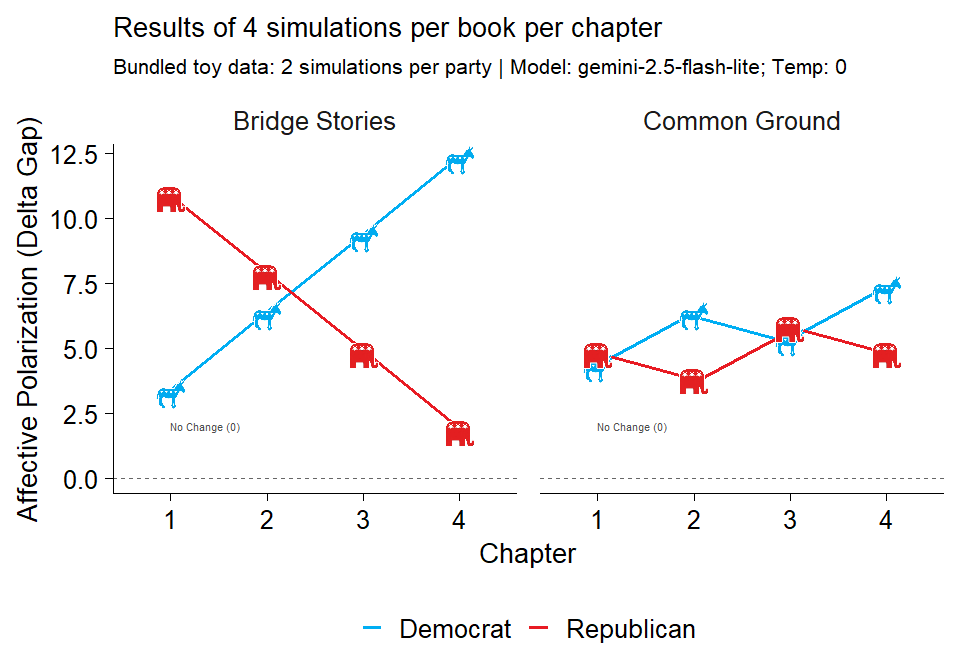
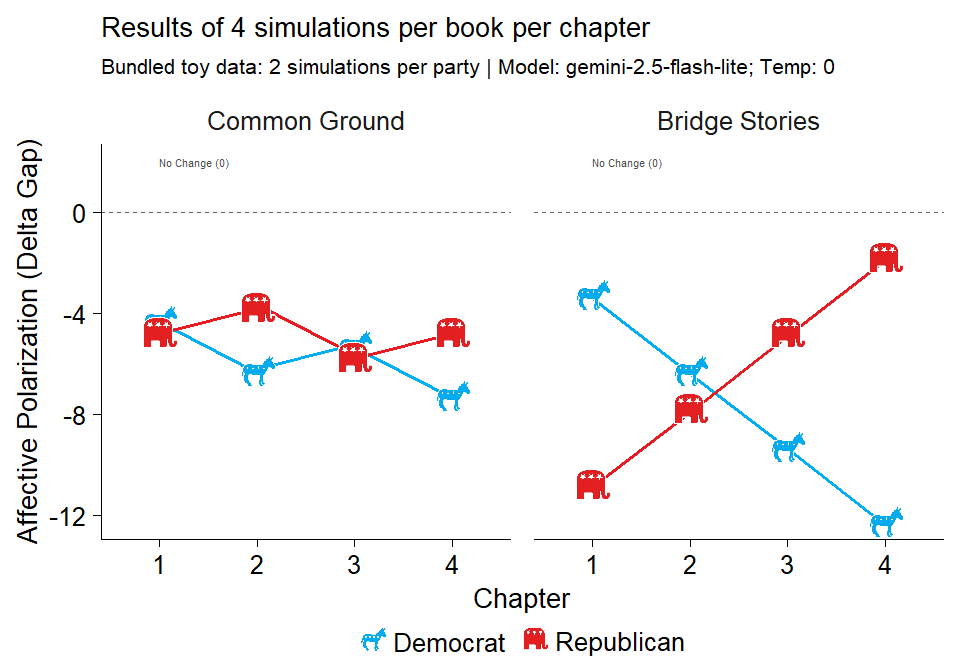
improve readme

diff --git a/README.md b/README.md
@@ -25,8 +25,31 @@ install.packages(
 
 ## Example workflow
 
-This example uses the bundled `toy_sim_results` dataset so it renders
-quickly and does not require running live AI simulations.
+The main workflow has three steps:
+
+1.  run `run_ai_on_chapters()` to get raw turn-level output
+2.  convert the raw turns to chapter-level metrics with
+    `compute_run_ai_metrics()`
+3.  summarize or plot the processed results
+
+This README uses bundled toy data so it renders quickly and does not
+require live API calls.
+
+``` r
+library(nalanda)
+
+raw_turns <- run_ai_on_chapters(
+  book_texts = "A short chapter about people from different groups cooperating.",
+  groups = c("Democrat", "Republican"),
+  context_text = "You are simulating an American adult who politically identifies as a {identity}.",
+  question_text = "On a scale from 0 to 100, how warmly do you feel towards {group}s?",
+  n_simulations = 2,
+  temperature = 0,
+  model = "gemini-2.5-flash-lite"
+)
+
+chapter_results <- compute_run_ai_metrics(raw_turns)
+```
 
 ``` r
 library(nalanda)
@@ -36,22 +59,26 @@ img_paths <- list(
   Republican = normalizePath("man/figures/rep.png")
 )
 
-head(toy_sim_results[, c("book", "chapter", "sim", "party", "delta_gap")])
-#>             book   chapter sim    party delta_gap
-#> 1 Bridge Stories chapter_1   1 Democrat        -3
-#> 2  Common Ground chapter_1   1 Democrat        -4
-#> 3 Bridge Stories chapter_2   1 Democrat        -6
-#> 4  Common Ground chapter_2   1 Democrat        -6
-#> 5 Bridge Stories chapter_3   1 Democrat        -9
-#> 6  Common Ground chapter_3   1 Democrat        -5
+chapter_results <- compute_run_ai_metrics(toy_run_ai_turns)
+
+head(chapter_results[, c("book", "chapter", "sim", "party", "delta_gap")])
+#> # A tibble: 6 × 5
+#>   book           chapter     sim party      delta_gap
+#>   <chr>          <chr>     <int> <chr>          <dbl>
+#> 1 Bridge Stories chapter_1     1 Democrat         3  
+#> 2 Common Ground  chapter_1     1 Democrat         4  
+#> 3 Bridge Stories chapter_1     1 Republican      11  
+#> 4 Common Ground  chapter_1     1 Republican       5  
+#> 5 Bridge Stories chapter_1     2 Democrat         3.5
+#> 6 Common Ground  chapter_1     2 Democrat         4.5
 ```
 
-Use the raw chapter-level results directly with the time-series plotting
-helper:
+Use the processed chapter-level results directly with the time-series
+plotting helper:
 
 ``` r
 plot_chapters_over_time(
-  chapters = toy_sim_results,
+  chapters = chapter_results,
   dv = "delta_gap",
   group = "party",
   y_label = "Affective Polarization (Delta Gap)",
@@ -66,8 +93,6 @@ plot_chapters_over_time(
   point_images = img_paths,
   image_size = 0.09
 )
-#> Scale for shape is already present.
-#> Adding another scale for shape, which will replace the existing scale.
 ```
 
 <div class="figure">
@@ -83,8 +108,9 @@ party.
 
 The same workflow scales to:
 
+- raw turn-level output from `run_ai_on_chapters()` after processing
+  with `compute_run_ai_metrics()`
 - summary tables via `summarize_chapter_scores()`
-- results returned by `run_ai_on_chapters()`
 - saved `.rds` simulation outputs
 - book-level summaries via
   `summarize_chapter_scores(..., aggregate_level = "book")`
@@ -121,7 +147,7 @@ library(nalanda)
 
 # Get a random fact about Nalanda University
 nalanda()
-#> [1] "Nalanda remained an active center of learning for roughly 700 years until the 12th century."
+#> [1] "Nalanda was one of the world's first residential universities, hosting thousands of students and teachers."
 ```
 
 Learn more about related research on books, learning, and prosociality:
